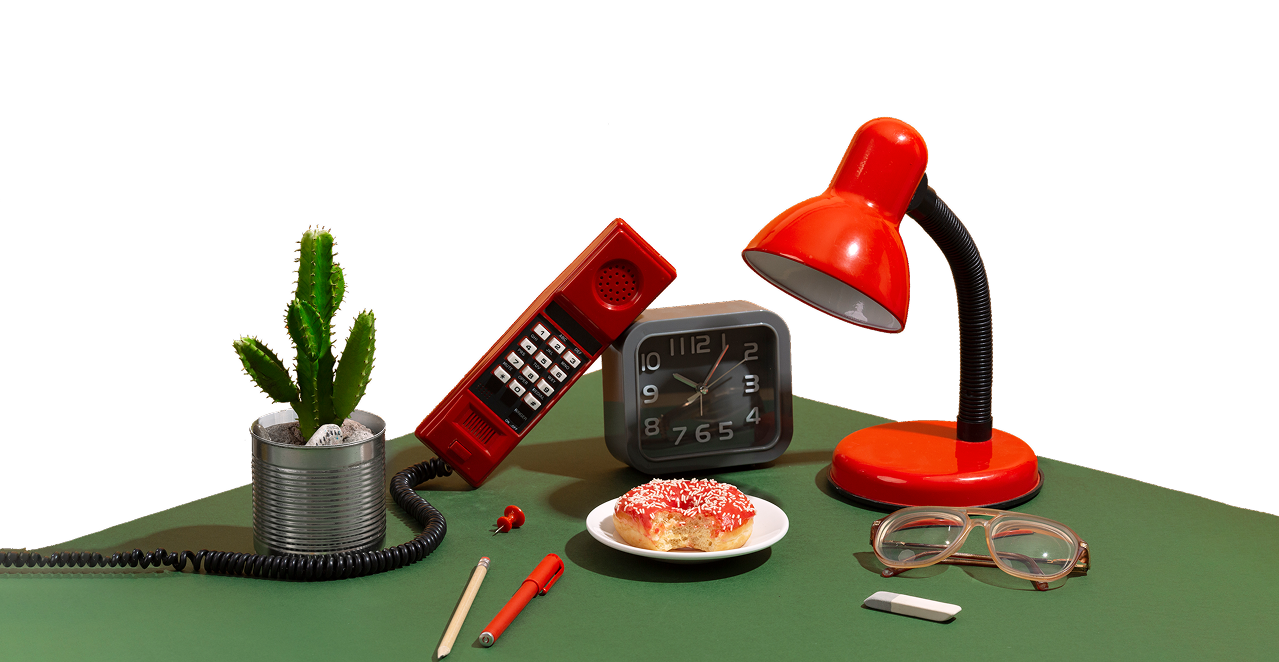
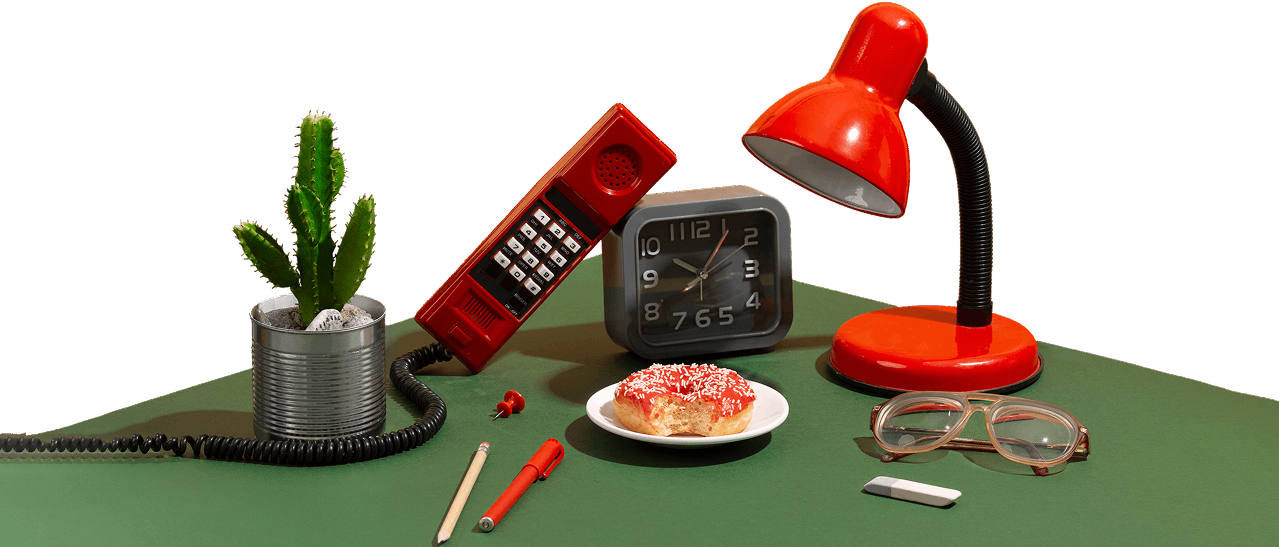
portfolio fix

diff --git a/src/components/PortfolioSection.vue b/src/components/PortfolioSection.vue
@@ -12,24 +12,49 @@ const projects = [
     <div class="container">
       <h2 class="portfolio__title">PORTFOLIO</h2>
       <div class="portfolio__grid">
-        <article
-          v-for="(project, i) in projects"
-          :key="project.image"
-          class="portfolio__card"
-          :class="{ 'portfolio__card--large': i === 0 }"
-        >
+        <article class="portfolio__card portfolio__card--large">
           <div class="portfolio__image">
-            <img :src="project.image" :alt="project.name" />
+            <img :src="projects[0].image" :alt="projects[0].name" />
           </div>
-          <p class="portfolio__name">{{ project.name }}</p>
+          <p class="portfolio__name">{{ projects[0].name }}</p>
+          <div class="portfolio__image-overlay"></div>
+
+        </article>
+        <article class="cards-wrapper">
+
+          <div class="wrapper">
+            <div class="portfolio__card">
+              <div class="portfolio__image">
+                <img :src="projects[1].image" :alt="projects[1].name" />
+              </div>
+              <p class="portfolio__name">{{ projects[1].name }}</p>
+            </div>
+            <div class="portfolio__card">
+              <div class="portfolio__image">
+                <img :src="projects[2].image" :alt="projects[2].name" />
+              </div>
+              <p class="portfolio__name">{{ projects[2].name }}</p>
+            </div>
+          </div>
+
+          <div class="portfolio__card">
+            <div class="portfolio__image">
+              <img :src="projects[3].image" :alt="projects[3].name" />
+            </div>
+            <p class="portfolio__name">{{ projects[3].name }}</p>
+            <div class="portfolio__image-overlay"></div>
+
+          </div>
         </article>
       </div>
-      <a href="#contact" class="portfolio__link">
-        View More
-        <svg width="16" height="16" viewBox="0 0 24 24" fill="none" stroke="currentColor" stroke-width="2">
-          <path d="M5 12h14M12 5l7 7-7 7"/>
-        </svg>
-      </a>
+      <div class="portfolio__link-wrapper">
+        <a href="#contact" class="portfolio__link">
+          View More
+          <svg width="16" height="16" viewBox="0 0 24 24" fill="none" stroke="currentColor" stroke-width="2">
+            <path d="M5 12h14M12 5l7 7-7 7" />
+          </svg>
+        </a>
+      </div>
     </div>
   </section>
 </template>
@@ -50,8 +75,7 @@ const projects = [
 }
 
 .portfolio__grid {
-  display: grid;
-  grid-template-columns: 1fr 1fr;
+  display: flex;
   gap: 16px;
   margin-bottom: 32px;
 }
@@ -65,21 +89,36 @@ const projects = [
 }
 
 .portfolio__card {
-  border-radius: 12px;
+  position: relative;
+  display: flex;
+  flex-direction: column;
+  gap: 16px;
   overflow: hidden;
 }
+
+.cards-wrapper {
+  display: flex;
+  height: 50%;
+  flex-direction: column;
+  gap: 10px;
+  justify-content: space-between;
+}
+
+.half-height {
+  height: 50%;
+}
+
 
 .portfolio__card--large {
   grid-row: span 2;
 }
 
 .portfolio__image {
-  aspect-ratio: 4/3;
   overflow: hidden;
 }
 
 .portfolio__card--large .portfolio__image {
-  aspect-ratio: 3/4;
+  height: 100%;
 }
 
 @media (min-width: 768px) {
@@ -87,6 +126,11 @@ const projects = [
     height: 100%;
     aspect-ratio: auto;
   }
+}
+
+.wrapper {
+  display: flex;
+  gap: 10px;
 }
 
 .portfolio__image img {
@@ -97,10 +141,33 @@ const projects = [
 }
 
 .portfolio__name {
+  position: absolute;
+  bottom: 0;
+  left: 10px;
+  right: 10px;
   font-size: 0.95rem;
   font-weight: 600;
-  color: var(--color-dark-purple);
-  margin-top: 12px;
+  color: var(--color-white);
+  z-index: 1;
+}
+
+.portfolio__image-overlay {
+  position: absolute;
+  bottom: 0;
+  left: 0;
+  width: 100%;
+  height: 35%;
+  background: linear-gradient(to bottom, rgb(0 0 0 / 0%) 0%, rgb(0 0 0) 40%);
+  opacity: 0.5;
+}
+
+.portfolio__link-wrapper {
+  display: flex;
+  justify-content: center;
+  margin-top: 32px;
+  width: fit-content;
+
+  border-bottom: 1px solid var(--color-dark-purple);
 }
 
 .portfolio__link {
@@ -117,5 +184,16 @@ const projects = [
 
 .portfolio__link:hover {
   opacity: 0.8;
+}
+
+.container {
+  width: fit-content;
+  max-width: 1200px;
+  margin: 0 auto;
+  padding: 0 24px;
+  display: flex;
+  flex-direction: column;
+  align-items: center;
+  justify-content: center;
 }
 </style>

diff --git a/src/components/Hero.vue b/src/components/Hero.vue
@@ -15,9 +15,8 @@
       <div class="container hero__bottom-inner">
         <h1 class="hero__title">MARKETING AGENCY</h1>
         <p class="hero__description">
-          At PICK Agency, we specialize in designing and installing modern solutions
-          for both residential and business needs. Full marketing & strategy,
-          influencer marketing, and creative digital campaigns.
+          At Pick Agency, we specialize in designing and installing modern solar systems for both residential and
+          business needs.
         </p>
         <a href="#contact" class="hero__cta">Contact Us</a>
       </div>
@@ -72,7 +71,7 @@
 
 .hero__bottom-inner {
   text-align: center;
-  padding-bottom: 24px;
+  padding-bottom: -24px;
 }
 
 .hero__title {
@@ -86,7 +85,7 @@
 .hero__description {
   max-width: 600px;
   margin: 0 auto 32px;
-  font-size: 1rem;
+  font-size: 1.2rem;
   color: var(--color-black);
   line-height: 1.6;
   opacity: 0.9;
@@ -111,9 +110,7 @@
 .hero__image {
   position: relative;
   width: 100%;
-  max-width: 900px;
-  margin: 0 auto;
-  padding: 0 24px;
+  margin: 0 auto -30px auto;
 }
 
 .hero__image img {

diff --git a/src/components/PartnersSection.vue b/src/components/PartnersSection.vue
@@ -19,12 +19,7 @@ const partners = [
         </div>
       </div>
     </div>
-    <a href="mailto:arsenmazmanyan11@gmail.com" class="partners__contact-btn" aria-label="Contact us">
-      <svg width="24" height="24" viewBox="0 0 24 24" fill="none" stroke="currentColor" stroke-width="2">
-        <path d="M4 4h16c1.1 0 2 .9 2 2v12c0 1.1-.9 2-2 2H4c-1.1 0-2-.9-2-2V6c0-1.1.9-2 2-2z" />
-        <polyline points="22,6 12,13 2,6" />
-      </svg>
-    </a>
+
   </section>
 </template>
 
@@ -69,32 +64,5 @@ const partners = [
   font-size: 0.85rem;
   font-weight: 600;
   color: var(--color-dark-purple);
-}
-
-.partners__contact-btn {
-  position: fixed;
-  right: 0;
-  top: 50%;
-  transform: translateY(-50%);
-  width: 56px;
-  height: 56px;
-  display: flex;
-  align-items: center;
-  justify-content: center;
-  background: var(--color-dark-purple);
-  color: var(--color-white);
-  z-index: 50;
-  transition: transform 0.2s;
-}
-
-.partners__contact-btn:hover {
-  transform: translateY(-50%) scale(1.05);
-}
-
-@media (max-width: 768px) {
-  .partners__contact-btn {
-    width: 48px;
-    height: 48px;
-  }
 }
 </style>

diff --git a/src/components/StayConnected.vue b/src/components/StayConnected.vue
@@ -28,6 +28,9 @@ const handleSubmit = (e) => {
         <button type="submit" class="stay-connected__submit">Contact Us</button>
       </form>
     </div>
+    <a href="mailto:arsenmazmanyan11@gmail.com" class="stay-connected__contact-btn" aria-label="Contact us">
+      <img src="/email_icon.png" alt="" width="24" height="24" />
+    </a>
   </section>
 </template>
 
@@ -119,4 +122,33 @@ const handleSubmit = (e) => {
   opacity: 0.95;
   transform: translateY(-2px);
 }
+
+
+.stay-connected__contact-btn {
+  position: fixed;
+  right: 0;
+  top: 50%;
+  transform: translateY(-50%);
+  width: 56px;
+  height: 56px;
+  display: flex;
+  align-items: center;
+  justify-content: center;
+  background: var(--color-dark-purple);
+  color: var(--color-white);
+  z-index: 50;
+  transition: transform 0.2s;
+}
+
+.stay-connected__contact-btn:hover {
+  transform: translateY(-50%) scale(1.05);
+}
+
+/* 
+@media (max-width: 768px) {
+  .stay-connected__contact-btn {
+    width: 48px;
+    height: 48px;
+  }
+} */
 </style>

diff --git a/src/styles/main.css b/src/styles/main.css
@@ -3,7 +3,7 @@
   --color-dark-purple-deep: #1D0631;
   --color-yellow: #fcb316;
   --color-yellow-bright: #fae566;
-  --color-lavender: #e8e0f0;
+  --color-lavender: #9C88B5;
   --color-lavender-light: #f5f0fa;
   --color-white: #ffffff;
   --color-black: #1a1a1a;
